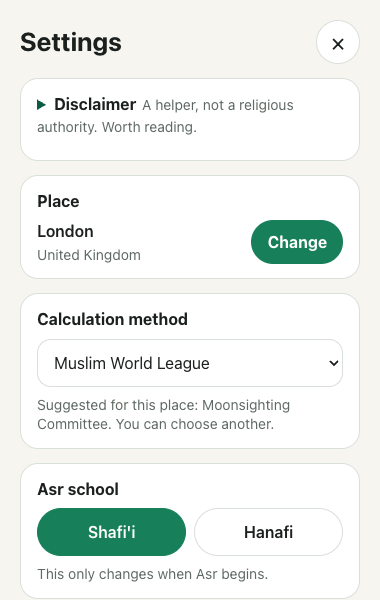
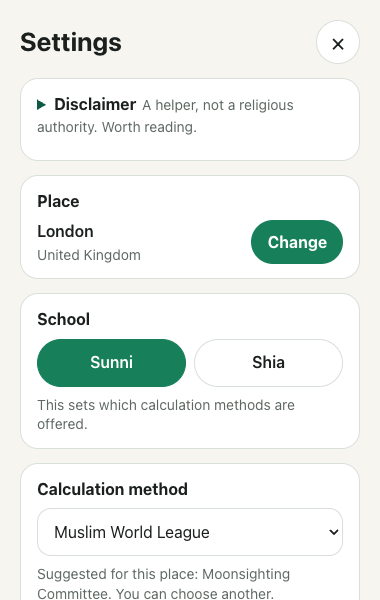
Give Shia users a School choice and fix the real popup width
What was wrong:
- The Settings method list always showed all 13 methods, so a Shia user could
  not limit it to Jafari and Tehran, and a Sunni user could pick a Shia method.
  The phone offers methods per school; the extension did not.
- The popup opened about 150 pixels wide in a real Chrome action popup because
  the stylesheet sized the body at 100% of an html element Chrome shrinks to
  fit the content. The end-to-end tests never caught it because they open the
  popup as a 380 pixel tab.

Why this change:
- A School row, Sunni and Shia, matches the phone's CalcMethod.offeredTo: Shia
  gets Jafari and Tehran only, Sunni every other method. Changing school resets
  to the country suggestion when the current method is no longer offered, in
  the same single save, mirroring the phone's setSect. One definition in
  methods.ts drives both the list and the setter so they cannot disagree.
- html and body now have a fixed 380 pixel width with max-width 100vw, so the
  real popup keeps its width while the 253 and 190 pixel zoom tests still shrink.

What was verified:
- npm run typecheck, npm test (8 files, 89 tests), npm run build, and
  npm run test:e2e (30 tests) all pass.
- Manifest permissions are still only storage and geolocation.

What was rejected:
- chrome.action.openPopup() cannot be asserted under Playwright: it resolves
  but opens no page the harness can measure. The popup-width test instead
[…]

diff --git a/tests/e2e/school.test.ts b/tests/e2e/school.test.ts
@@ -1,0 +1,104 @@
+import { expect, test } from '@playwright/test';
+import type { Page } from '@playwright/test';
+import { launchExtension, seedSettings, type Extension } from './extension';
+
+async function openSettings(page: Page) {
+  await page.getByRole('button', { name: 'Settings' }).click();
+  await expect(page.getByRole('heading', { name: 'Settings' })).toBeVisible();
+}
+
+async function seed(page: Page, settings: unknown) {
+  await page.evaluate(async (value) => {
+    await chrome.storage.local.set({ 'sajdatime.settings.v1': value });
+  }, settings);
+  await page.reload();
+  await page.waitForSelector('.next-card');
+}
+
+async function storedSectAndMethod(page: Page) {
+  return page.evaluate(async () => {
+    const value = await chrome.storage.local.get('sajdatime.settings.v1');
+    return value['sajdatime.settings.v1'] as { sect: string; method: string };
+  });
+}
+
+const LONDON_SHIA_TEHRAN = {
+  version: 1,
+  place: {
+    name: 'London',
+    latitude: 51.5074,
+    longitude: -0.1278,
+    timeZone: 'Europe/London',
+    countryCode: 'GB',
+  },
+  sect: 'shia',
+  method: 'tehran',
+  madhab: 'shafii',
+  hijriOffsetDays: 0,
+};
+
+test('choosing Shia from a Sunni method saves the Shia suggestion and offers only the Shia pair', async () => {
+  const extension: Extension = await launchExtension();
+  try {
+    await seedSettings(extension); // London, Sunni, MWL
+    await openSettings(extension.page);
+    await extension.page.getByRole('button', { name: 'Shia' }).click();
+
+    const stored = await storedSectAndMethod(extension.page);
+    expect(stored.sect).toBe('shia');
+    expect(stored.method).toBe('jafari'); // suggestMethod('GB', 'shia').suggested
+
+    const values = await extension.page
+      .locator('#method option')
+      .evaluateAll((options) => (options as HTMLOptionElement[]).map((option) => option.value));
+    expect(values).toEqual(['jafari', 'tehran']);
+  } finally {
+    await extension.close();
+  }
+});
+
+test('choosing Sunni from Jafari saves the country Sunni suggestion', async () => {
+  const extension: Extension = await launchExtension();
+  try {
+    await seed(extension.page, { ...LONDON_SHIA_TEHRAN, method: 'jafari' });
+    await openSettings(extension.page);
+    await extension.page.getByRole('button', { name: 'Sunni' }).click();
+
+    const stored = await storedSectAndMethod(extension.page);
+    expect(stored.sect).toBe('sunni');
+    expect(stored.method).toBe('moonsighting'); // suggestMethod('GB', 'sunni').suggested
+  } finally {
+    await extension.close();
+  }
+});
+
+test('choosing Shia while already on Tehran keeps Tehran', async () => {
+  const extension: Extension = await launchExtension();
+  try {
+    await seed(extension.page, LONDON_SHIA_TEHRAN);
+    await openSettings(extension.page);
+    await extension.page.getByRole('button', { name: 'Shia' }).click();
+
+    const stored = await storedSectAndMethod(extension.page);
+    expect(stored.sect).toBe('shia');
+    expect(stored.method).toBe('tehran');
+  } finally {
+    await extension.close();
+  }
+});
+
+test('keyboard focus stays on the pressed school button after the save', async () => {
+  const extension: Extension = await launchExtension();
+  try {
+    await seedSettings(extension);
+    await openSettings(extension.page);
+    await expect(extension.page.getByRole('heading', { name: 'Settings' })).toBeFocused();
+
+    const shia = extension.page.getByRole('button', { name: 'Shia' });
+    await shia.press('Enter');
+    await expect(shia).toBeFocused();
+    await expect(shia).toHaveAttribute('aria-pressed', 'true');
+  } finally {
+    await extension.close();
+  }
+});

diff --git a/src/popup/Settings.tsx b/src/popup/Settings.tsx
@@ -1,8 +1,8 @@
 import { useEffect, useRef, useState } from 'preact/hooks';
 import { countryName } from '../core/cities';
-import { METHOD_IDS, isShiaMethod } from '../core/methods';
+import { isMethodOfferedTo, isShiaMethod, methodsOfferedTo } from '../core/methods';
 import { suggestMethod } from '../core/suggestions';
-import type { MethodId } from '../core/types';
+import type { MethodId, Sect } from '../core/types';
 import { saveSettings } from '../settings/storage';
 import type { Settings as SettingsValue } from '../settings/types';
 import { LocationSheet } from './LocationSheet';
@@ -77,6 +77,17 @@ export function Settings({ settings, onClose, onSaved }: Props) {
         setBusy(false);
         setError('Your settings could not be saved. Try again.');
       });
+  }
+
+  function changeSect(sect: Sect) {
+    const patch: Partial<Omit<SettingsValue, 'version'>> = { sect };
+    // A method the new school was never offered goes back to the school's suggestion,
+    // not silently kept: a Sunni convention on a Shia user loses the Jafari Maghrib,
+    // and a Shia one on a Sunni user gains it. Mirrors the phone's setSect.
+    if (!isMethodOfferedTo(settings.method, sect)) {
+      patch.method = suggestMethod(settings.place.countryCode, sect).suggested;
+    }
+    update(patch);
   }
 
   if (changingPlace) {
@@ -156,6 +167,33 @@ export function Settings({ settings, onClose, onSaved }: Props) {
         </div>
       </section>
 
+      <section class="settings-group" aria-labelledby="school-heading">
+        <h2 class="group-title" id="school-heading">
+          School
+        </h2>
+        <div class="segmented" role="group" aria-labelledby="school-heading">
+          <button
+            class={settings.sect === 'sunni' ? 'segment is-selected' : 'segment'}
+            type="button"
+            aria-pressed={settings.sect === 'sunni'}
+            aria-disabled={busy}
+            onClick={() => changeSect('sunni')}
+          >
+            Sunni
+          </button>
+          <button
+            class={settings.sect === 'shia' ? 'segment is-selected' : 'segment'}
+            type="button"
+            aria-pressed={settings.sect === 'shia'}
+            aria-disabled={busy}
+            onClick={() => changeSect('shia')}
+          >
+            Shia
+          </button>
+        </div>
+        <p class="field-hint">This sets which calculation methods are offered.</p>
+      </section>
+
       <section class="settings-group" aria-labelledby="method-heading">
         <h2 class="group-title" id="method-heading">
           Calculation method
@@ -170,7 +208,7 @@ export function Settings({ settings, onClose, onSaved }: Props) {
           aria-disabled={busy}
           onChange={(event) => update({ method: event.currentTarget.value as MethodId })}
         >
-          {METHOD_IDS.map((method) => (
+          {methodsOfferedTo(settings.sect).map((method) => (
             <option value={method} key={method}>
               {METHOD_LABELS[method]}
             </option>

diff --git a/tests/unit/methods.test.ts b/tests/unit/methods.test.ts
@@ -1,0 +1,31 @@
+import { describe, expect, it } from 'vitest';
+import { isMethodOfferedTo, methodsOfferedTo, METHOD_IDS } from '../../src/core/methods';
+
+describe('method offered to a school', () => {
+  it('offers Jafari and Tehran only to Shia', () => {
+    expect(isMethodOfferedTo('jafari', 'shia')).toBe(true);
+    expect(isMethodOfferedTo('tehran', 'shia')).toBe(true);
+    expect(isMethodOfferedTo('mwl', 'shia')).toBe(false);
+    expect(isMethodOfferedTo('umm-al-qura', 'shia')).toBe(false);
+  });
+
+  it('offers every other method to Sunni and none of the Shia pair', () => {
+    expect(isMethodOfferedTo('mwl', 'sunni')).toBe(true);
+    expect(isMethodOfferedTo('karachi', 'sunni')).toBe(true);
+    expect(isMethodOfferedTo('jafari', 'sunni')).toBe(false);
+    expect(isMethodOfferedTo('tehran', 'sunni')).toBe(false);
+  });
+
+  it('lists only the Shia pair for Shia, in the stored method order', () => {
+    expect(methodsOfferedTo('shia')).toEqual(['jafari', 'tehran']);
+  });
+
+  it('lists every Sunni method for Sunni and none of the Shia pair', () => {
+    const sunni = methodsOfferedTo('sunni');
+    expect(sunni).not.toContain('jafari');
+    expect(sunni).not.toContain('tehran');
+    expect(sunni).toHaveLength(METHOD_IDS.length - 2);
+    expect(sunni[0]).toBe('moonsighting');
+    expect(sunni[sunni.length - 1]).toBe('singapore');
+  });
+});

diff --git a/src/core/methods.ts b/src/core/methods.ts
@@ -6,7 +6,7 @@ import {
   PolarCircleResolution,
   Rounding,
 } from 'adhan';
-import type { Madhab, MethodId } from './types';
+import type { Madhab, MethodId, Sect } from './types';
 
 /**
  * The 13 methods the extension offers, in the order the Settings sheet shows them.
@@ -50,6 +50,22 @@ export function isMethodId(value: unknown): value is MethodId {
 
 export function isShiaMethod(method: MethodId): boolean {
   return method === 'jafari' || method === 'tehran';
+}
+
+/**
+ * Whether a method is one a user of [sect] should be offered at all. Jafari and Tehran
+ * are Shia conventions (a Maghrib after sunset); the rest are Sunni. One definition,
+ * used by the list the user picks from and by the School setter that has to discard a
+ * method the new school was never offered, so the two cannot disagree. Mirrors the
+ * phone's `CalcMethod.offeredTo`.
+ */
+export function isMethodOfferedTo(method: MethodId, sect: Sect): boolean {
+  return sect === 'shia' ? isShiaMethod(method) : !isShiaMethod(method);
+}
+
+/** The methods the Settings list shows for [sect], in the same order as `METHOD_IDS`. */
+export function methodsOfferedTo(sect: Sect): MethodId[] {
+  return METHOD_IDS.filter((method) => isMethodOfferedTo(method, sect));
 }
 
 /**

diff --git a/tests/e2e/popup-width.test.ts b/tests/e2e/popup-width.test.ts
@@ -1,0 +1,27 @@
+import { expect, test } from '@playwright/test';
+import { launchExtension, seedSettings, type Extension } from './extension';
+
+/**
+ * `chrome.action.openPopup()` is the real check, but under Playwright's headless
+ * Chrome it resolves without opening a page the harness can measure. So this test
+ * reproduces the bug's root cause instead: the real popup sizes itself to the
+ * document's intrinsic width, which is exactly what setting the html element to
+ * `width: fit-content` simulates. The body must stay 380px wide on its own.
+ */
+test('the popup body stays 380px wide even when the document is sized to its content', async () => {
+  const extension: Extension = await launchExtension();
+  try {
+    await seedSettings(extension);
+
+    const bodyWidth = await extension.page.evaluate(() => {
+      const html = document.documentElement;
+      html.style.width = 'fit-content';
+      html.style.maxWidth = 'none';
+      return document.body.getBoundingClientRect().width;
+    });
+
+    expect(bodyWidth).toBe(380);
+  } finally {
+    await extension.close();
+  }
+});

diff --git a/src/popup/styles.css b/src/popup/styles.css
@@ -8,10 +8,14 @@ body {
   padding: 0;
 }
 
+html {
+  width: 380px;
+  max-width: 100vw;
+}
+
 body {
-  width: 100%;
-  max-width: 380px;
-  min-width: 0;
+  width: 380px;
+  max-width: 100vw;
   min-height: 600px;
   background: var(--paper);
   color: var(--ink);

diff --git a/docs/HANDOVER.md b/docs/HANDOVER.md
@@ -17,14 +17,14 @@ An independent review brief for this commit is in [`docs/REVIEW-REQUEST.md`](REV
 | Area | State | Evidence |
 | --- | --- | --- |
 | Manifest V3 extension | Loads in Chrome for Testing | Playwright launches it with `--load-extension=dist` and finds the popup |
-| Prayer engine | 13 methods, both Asr schools, polar projection and correction clamp, Shia Maghrib from the Twilight Angle cap exactly as the phone does it, so a normal Shia day above 60 degrees is not projected | `npm test`: 85 unit tests pass |
+| Prayer engine | 13 methods, both Asr schools, polar projection and correction clamp, Shia Maghrib from the Twilight Angle cap exactly as the phone does it, so a normal Shia day above 60 degrees is not projected | `npm test`: 89 unit tests pass |
 | Golden values | Six phone fixtures pinned, plus 13 broad Aladhan sanity fixtures | `tests/unit/engine.test.ts`, `tests/unit/aladhan.test.ts` |
 | Hijri calendar | Umm al-Qura, shift, Ramadan windows, Eids | `tests/unit/hijri.test.ts` |
 | Method suggestion | Country table and Shia rule | `tests/unit/suggestions.test.ts` |
 | City search | Offline GeoNames city list, search and pick | `tests/unit/cities.test.ts`, Playwright first-run test |
-| Popup | Place, Hijri date, next prayer, countdown, six times, 190 and 253 pixel viewports, visible Settings button, explicit Next and Now pills | Playwright screenshots and 25 end-to-end tests |
+| Popup | Place, Hijri date, next prayer, countdown, six times, a fixed 380 pixel width, 190 and 253 pixel viewports, visible Settings button, explicit Next and Now pills | Playwright screenshots and 30 end-to-end tests |
 | First run | Location, city search, method suggestion, save, show times | Playwright tests with a supplied geolocation fix |
-| Settings | Place change, method, Asr school, Hijri shift, disclaimer, privacy link, keyboard focus and Escape | Playwright tests |
+| Settings | Place change, School (Sunni or Shia), method, Asr school, Hijri shift, disclaimer, privacy link, keyboard focus and Escape | Playwright tests |
 | Light and dark | Both themes from `tokens.css`, WCAG AA contrast pairs | `tests/unit/contrast.test.ts`, `docs/images/times-dark.png`, `docs/images/settings-dark.png` |
 | Accessibility | Keyboard focus moves into full screens and returns, every control has a 44 pixel target, axe finds no WCAG 2.2 AA violation | `tests/e2e/a11y.test.ts`, `tests/e2e/design.test.ts` |
 | No network | No request leaves the extension while it shows times | Playwright request listener |
@@ -35,12 +35,12 @@ Commands actually run on 27 October 2026:
 
 ```text
 npm run typecheck    pass
-npm test             7 files, 87 tests passed
+npm test             8 files, 89 tests passed
 npm run build        pass, dist/manifest.json and the popup bundle written
-npm run test:e2e     25 tests passed
+npm run test:e2e     30 tests passed
 ```
 
-The 25 end-to-end tests are six Settings and state tests, six design and responsive tests, three axe tests and ten original popup tests. They run in Chrome for Testing at:
+The 30 end-to-end tests are six Settings and state tests, six design and responsive tests, three axe tests, ten original popup tests, four School tests and one popup-width test. They run in Chrome for Testing at:
 
 ```text
 /Users/aliimrankhan/Library/Caches/ms-playwright/chromium-1223/chrome-mac-arm64/Google Chrome for Testing.app/Contents/MacOS/Google Chrome for Testing
@@ -62,7 +62,8 @@ That path is one example of where Playwright keeps Chrome for Testing. `tests/e2
 ## Known gaps in what was tested
 
 - The real browser permission bubble for geolocation is not automated. The end-to-end test supplies a known fix through `navigator.geolocation` and checks that the extension saves it. The banner and the real prompt still need a manual look.
-- The popup was tested at 380 by 600, 253 by 600 (150 percent zoom) and 190 by 600 (200 percent zoom). The 190 pixel test proves no horizontal scroll and no control outside the viewport, but it is a layout emulation, not a real browser zoom. Sizes a user could get from a resized window, and Windows display scaling, are not tested yet.
+- The zoom tests run the popup as a 380 pixel tab at 253 by 600 (150 percent) and 190 by 600 (200 percent). They prove no horizontal scroll and no control outside the viewport, but they are a layout emulation, not a real browser zoom. Sizes a user could get from a resized window, and Windows display scaling, are not tested yet.
+- **Lesson, 27 October 2026: the popup was only ever tested as a 380 pixel tab, so the real action popup opening at about 150 pixels went unnoticed.** `chrome.action.openPopup()` resolves under Playwright but opens no page the harness can measure, so the real width still cannot be asserted in the suite. The fix gives the `html` and `body` elements a fixed 380 pixel width, and `tests/e2e/popup-width.test.ts` reproduces the root cause (the document sized to its content) instead. The real popup still deserves a manual look in a real Chrome profile.
 - No screen reader was run against the popup. axe reports no WCAG 2.2 AA violation on Times, first run, Settings and Location in light and dark, but axe cannot judge reading order, announcement quality or whether a real screen reader makes sense of the page.
 - Windows, Edge and a real user's Chrome profile are not tested. The suite runs on macOS with Chrome for Testing. Edge gets a manual load and a short check later.
 - The first run uses the computer's time zone when it reads the browser's location. A city chosen by name uses the city's own time zone.

diff --git a/docs/DECISIONS.md b/docs/DECISIONS.md
@@ -179,3 +179,13 @@ The Shia Maghrib is not an exception to the phone's behaviour. The phone keeps i
 **Evidence:** `tests/e2e/design.test.ts` checks the visible pills and `aria-current="time"` on the current row. `tests/e2e/audit.test.ts` checks Tab into Settings, heading focus, Escape, return to the Settings button, and Escape from Location back to Change. `tests/e2e/a11y.test.ts` runs axe on Times, first run, Settings and Location in light and dark.
 
 **Revisit if:** the layout leaves no room for a text pill and the label moves to an icon. Then the icon needs an accessible name and the same test.
+
+## D-020: School offers only the methods that belong to it
+
+**Decided:** Settings has a School row with Sunni and Shia. Shia is offered Jafari and Tehran only; Sunni is offered every other method. Changing school keeps the current method when the new school offers it, and otherwise resets to the country's suggestion for that school in the same single save.
+
+**Why:** the phone's `CalcMethod.offeredTo` treats Jafari and Tehran as Shia-only and everything else as Sunni-only, and `SettingsRepository.setSect` discards a method the new school was never offered. The extension mirrors both, with the country suggestion standing in for the phone's `AUTO`. A Shia user kept on a Sunni method would silently lose the Jafari Maghrib, and a Sunni user kept on Jafari would silently gain it.
+
+**Evidence:** `src/core/methods.ts` holds one `isMethodOfferedTo` used by both the Settings method list and the School setter, so the two cannot disagree. `tests/unit/methods.test.ts` pins the split; `tests/e2e/school.test.ts` covers both reset directions, the keep case and focus after a save.
+
+**Revisit if:** a method spans both schools, or a scholar Ali trusts asks for a different split.

diff --git a/README.md b/README.md
@@ -16,7 +16,7 @@ This is a separate product from the [SajdaTime Android app](https://github.com/a
 - The Hijri date from the Umm al-Qura calendar.
 - A first run that asks for location, then keeps the place on this computer, with a clearly labelled Makkah fallback if location is refused.
 - A built-in city search that works offline, so a town can be typed in and chosen.
-- A Settings screen for the place, calculation method, Asr school, Hijri date shift, the privacy policy and the disclaimer.
+- A Settings screen for the place, school, calculation method, Asr school, Hijri date shift, the privacy policy and the disclaimer.
 - Light and dark themes that follow the computer.
 - A Times popup that fits 380 by 600 pixels without scrolling.
 
